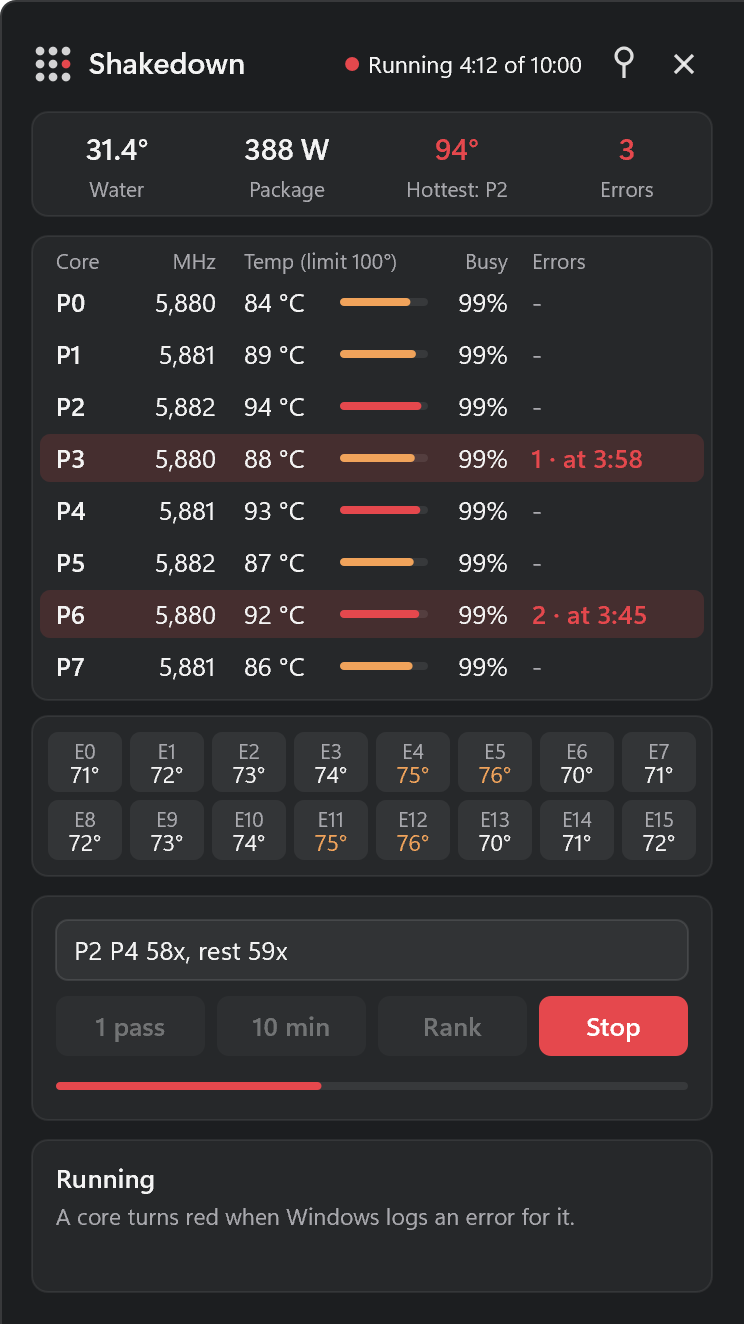
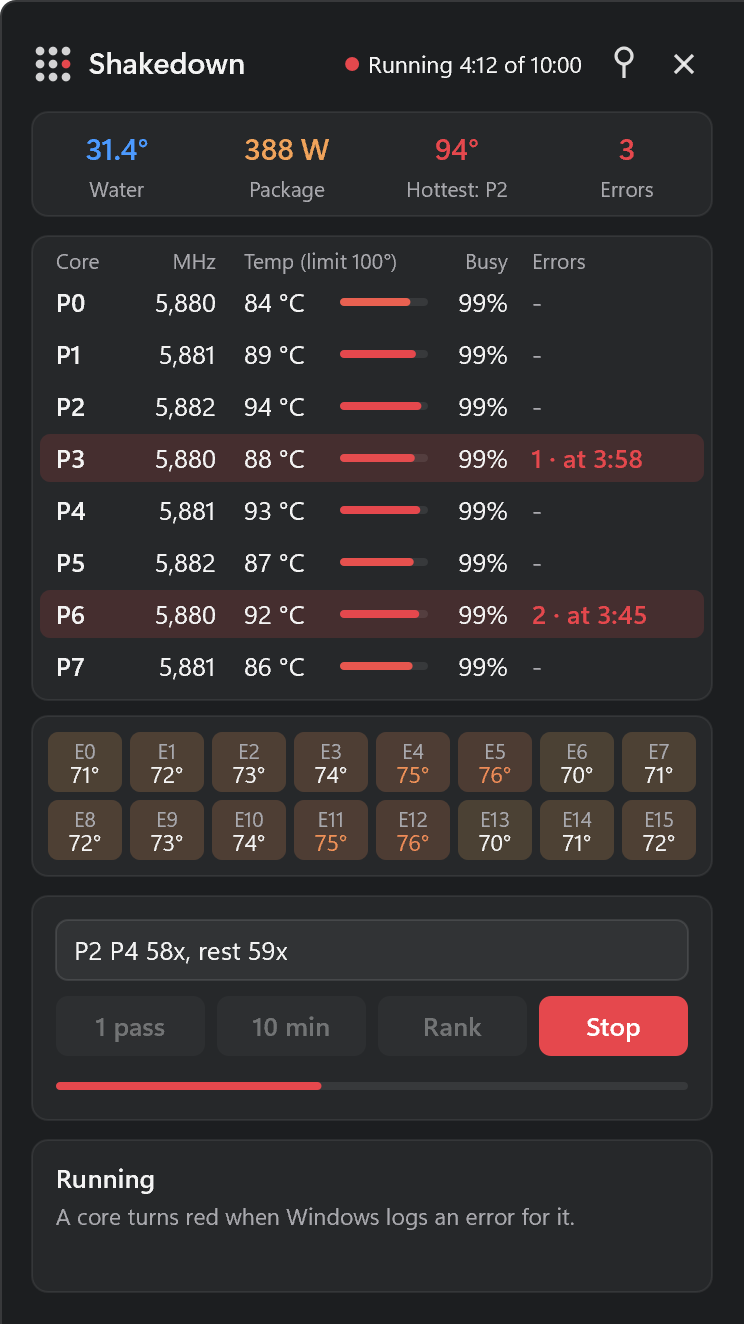
Panel: colour by temperature, blue start buttons, hints on hover
Bars, efficiency-core cells and the hottest reading take a colour from the temperature (blue, green, amber, red). Start buttons are blue, a clean error count is green, and the line under the buttons says what the thing under the mouse does.

Discord: https://discord.com/channels/1464635470893027360/1537253820067745863

diff --git a/src/window.c b/src/window.c
@@ -26,6 +26,7 @@
 #define ACCENT      0xE5484D
 #define WARN        0xF0A35B
 #define GOOD        0x3FB950
+#define COOL        0x4C9AFF
 #define WM_LIVE     (WM_APP + 1)
 #define WM_DONE     (WM_APP + 2)
 #define WM_TRAY     (WM_APP + 3)
@@ -177,10 +178,23 @@ static void number(int v, LPWSTR out) {
     else wsprintfW(out, L"%d", v);
 }
 
+// A colour for a temperature: blue when cool, through green and amber, to red near the thermal limit.
 static UINT heat(int temp, int limit) {
+    static const struct { float at; UINT rgb; } stop[] = {{0, COOL}, {0.35f, GOOD}, {0.62f, WARN}, {0.85f, ACCENT}, {1, ACCENT}};
     if (limit <= 0) limit = 100;
-    return temp >= limit - 10 ? ACCENT : temp >= limit - 25 ? warn() : dim();
+    float t = (float)(temp - 25) / (float)(limit - 25);
+    t = t < 0 ? 0 : t > 1 ? 1 : t;
+    int i = 0;
+    while (i < 3 && t > stop[i + 1].at) i++;
+    float f = (t - stop[i].at) / (stop[i + 1].at - stop[i].at);
+    UINT out = 0;
+    for (int shift = 16; shift >= 0; shift -= 8) {
+        int a = (stop[i].rgb >> shift) & 255, b = (stop[i + 1].rgb >> shift) & 255;
+        out |= (UINT)(a + (b - a) * f + 0.5f) << shift;
+    }
+    return out;
 }
+static BOOL hot(int temp, int limit) { return temp >= (limit > 0 ? limit : 100) - 25; }
 
 static const LiveCore *shown(int i, int *errors, int *first) {
     // Errors stay on screen after a run, until the next one starts.
@@ -192,12 +206,14 @@ static const LiveCore *shown(int i, int *errors, int *first) {
 
 static BOOL isHeld(int i) { return ((running ? view.held : heldOut) >> i & 1) != 0; }
 
-static void button(int id, LPCWSTR label, float x, float y, float w, BOOL enabled, BOOL strong) {
+// Start buttons carry the cool colour, Stop the accent. A disabled button is grey.
+static void button(int id, LPCWSTR label, float x, float y, float w, BOOL enabled, BOOL stop) {
     D2D1_RECT_F r = rc(x, y, w, 30);
     if (enabled) hit[id] = r;
-    if (strong && enabled) fillRound(r, 6, ACCENT, hover == id ? 0.85f : 1);
-    else fillRound(r, 6, tone(), !enabled ? 0.03f : hover == id ? 0.14f : 0.08f);
-    text(label, F_BOLD, rc(x, y + 6, w, 20), strong && enabled ? 0xFFFFFF : ink(), enabled ? 1 : 0.35f, DWRITE_TEXT_ALIGNMENT_CENTER);
+    if (!enabled) fillRound(r, 6, tone(), 0.03f);
+    else if (stop) fillRound(r, 6, ACCENT, hover == id ? 0.85f : 1);
+    else fillRound(r, 6, COOL, hover == id ? 0.38f : light ? 0.20f : 0.24f), strokeRound(r, 6, COOL, 0.45f, 1);
+    text(label, F_BOLD, rc(x, y + 6, w, 20), stop && enabled ? 0xFFFFFF : ink(), enabled ? 1 : 0.35f, DWRITE_TEXT_ALIGNMENT_CENTER);
 }
 
 static void reading(LPCWSTR value, LPCWSTR label, float x, float y, float w, UINT color) {
@@ -283,7 +299,7 @@ static void paintAll(void) {
             lstrcpyW(s, L"Ready");
         }
         float tw = measure(s, F_SMALL);
-        if (running) dot(right - tw - 9, y + 16, 3.5f, ACCENT, 1);
+        dot(right - tw - 9, y + 16, 3.5f, running ? ACCENT : haveResult ? color : good(), 1);
         text(s, F_SMALL, rc(right - tw - 1, y + 8, tw + 4, 18), color, 1, DWRITE_TEXT_ALIGNMENT_LEADING);
         // Pin: keeps the panel open when you click elsewhere.
         hit[H_PIN] = rc(x + w - 58, y + 2, 28, 28);
@@ -313,15 +329,15 @@ static void paintAll(void) {
         card(x, y, w, 52);
         if (view.coolant >= 0) wsprintfW(s, L"%d.%d\x00B0", (int)view.coolant, (int)(view.coolant * 10 + 0.5) % 10);
         else lstrcpyW(s, L"-");
-        reading(s, L"Water", x, y, cw, ink());
+        reading(s, L"Water", x, y, cw, view.coolant >= 0 ? COOL : ink());
         if (view.pkgWatts > 0) wsprintfW(s, L"%d W", view.pkgWatts);
         else lstrcpyW(s, L"-");
-        reading(s, L"Package", x + cw, y, cw, ink());
+        reading(s, L"Package", x + cw, y, cw, view.pkgWatts > 0 ? warn() : ink());
         if (hottest >= 0) wsprintfW(s, L"%d\x00B0", view.core[hottest].temp), wsprintfW(t, L"Hottest: %S", cores[hottest].name);
         else lstrcpyW(s, L"-"), lstrcpyW(t, L"Hottest core");
-        reading(s, t, x + 2 * cw, y, cw, hottest >= 0 && heat(view.core[hottest].temp, view.tjmax) != dim() ? heat(view.core[hottest].temp, view.tjmax) : ink());
+        reading(s, t, x + 2 * cw, y, cw, hottest >= 0 ? heat(view.core[hottest].temp, view.tjmax) : ink());
         wsprintfW(s, L"%d", total);
-        reading(s, total == 1 ? L"Error" : L"Errors", x + 3 * cw, y, cw, total ? ACCENT : ink());
+        reading(s, total == 1 ? L"Error" : L"Errors", x + 3 * cw, y, cw, total ? ACCENT : good());
         y += 52 + 10;
     }
 
@@ -385,14 +401,16 @@ static void paintAll(void) {
             D2D1_RECT_F cell = rc(cx, cy, cw, ch);
             UINT color = ink();
             if (!running) hit[H_CORE + i] = cell;
-            fillRound(cell, 5, errors ? ACCENT : tone(), errors ? 0.30f : hover == H_CORE + i ? 0.12f : 0.06f);
+            if (errors) fillRound(cell, 5, ACCENT, 0.30f);
+            else if (c->temp >= 0 && !held) fillRound(cell, 5, heat(c->temp, view.tjmax), hover == H_CORE + i ? 0.34f : 0.20f);
+            else fillRound(cell, 5, tone(), hover == H_CORE + i ? 0.12f : 0.06f);
             wsprintfW(s, L"%S", cores[i].name);
             text(s, F_TINY, rc(cx, cy + 2, cw, 13), dim(), a, DWRITE_TEXT_ALIGNMENT_CENTER);
             if (errors) wsprintfW(s, L"%d err", errors);
             else if (held) lstrcpyW(s, L"out");
             else if (c->temp >= 0) {
                 wsprintfW(s, L"%d\x00B0", c->temp);
-                if (heat(c->temp, view.tjmax) != dim()) color = heat(c->temp, view.tjmax);
+                if (hot(c->temp, view.tjmax)) color = heat(c->temp, view.tjmax);
             } else if (c->mhz) number(c->mhz, s);
             else lstrcpyW(s, L"-");
             text(s, F_SMALL, rc(cx, cy + 13, cw, 15), color, a, DWRITE_TEXT_ALIGNMENT_CENTER);
@@ -436,8 +454,20 @@ static void paintAll(void) {
             hit[H_INSTALL] = rc(ix + lw + 4, hy - 2, measure(link, F_TINY) + 6, 18);
             text(link, F_TINY, rc(ix + lw + 7, hy, 220, 14), ACCENT, hover == H_INSTALL ? 0.8f : 1, DWRITE_TEXT_ALIGNMENT_LEADING);
         } else {
-            LPCWSTR hint = running ? L"A crash closes the load by itself. Stop ends it now." : L"Click a core to hold it out. Rank repeats a 10 minute run.";
-            text(hint, F_TINY, rc(ix, hy, iw, 14), dim(), 1, DWRITE_TEXT_ALIGNMENT_LEADING);
+            // Says what the thing under the mouse does.
+            LPCWSTR hint = running ? L"A crash closes the load by itself. Stop ends it now." : L"Hover anything to see what it does.";
+            if (hover == H_PASS) hint = L"Run the load once, start to finish. The quick check.";
+            else if (hover == H_TEN) hint = L"Run the load for 10 minutes. The full test.";
+            else if (hover == H_RANK) hint = L"10 minute runs, holding out each core that fails, until it passes.";
+            else if (hover == H_STOP) hint = L"End the run now.";
+            else if (hover == H_NOTE) hint = L"Saved with the result, so you know which settings it was.";
+            else if (hover == H_PIN) hint = pinned ? L"Pinned: stays open. Click to let it close again." : L"Keep this panel open when you click elsewhere.";
+            else if (hover == H_EXIT) hint = L"Exit Shakedown. It is not running after this.";
+            else if (hover >= H_CORE) {
+                wsprintfW(s, isHeld(hover - H_CORE) ? L"%S is held out. Click to put it back in the next run." : L"Click to hold %S out of the next run: it stays idle.", cores[hover - H_CORE].name);
+                hint = s;
+            }
+            text(hint, F_TINY, rc(ix, hy, iw, 14), hover ? ink() : dim(), hover ? 0.9f : 1, DWRITE_TEXT_ALIGNMENT_LEADING);
         }
         y += 112 + 10;
     }

diff --git a/AGENTS.md b/AGENTS.md
@@ -39,6 +39,7 @@ Guide for coding agents working on this repo. Humans: see README.md.
 - **Idle cost:** the worker samples every 2 s only while the panel is open (`watching`) or a run is going. With the panel closed and no run it calls `sensorsClose()` and waits without a timeout, so the helper exits and nothing is read. Keep it that way.
 - Drawing: an `ID2D1DCRenderTarget` (software, premultiplied alpha) into a DIB, handed over with `UpdateLayeredWindow`. A frame is drawn per sample or mouse change, nothing in between. Never while the panel is hidden.
 - 372 wide, height from the core counts (`height()`). Top to bottom: header (state, pin, exit), four readings, P-cores as rows, E-cores as a grid, the test card, the result card (or the last two ledger lines when there is no result yet). On a small or heavily scaled screen the whole panel is scaled down to fit.
+- Colour: `heat()` maps a temperature to blue, green, amber, red (red from 85% of the way to the thermal limit) for bars, efficiency-core cells and the hottest reading. Start buttons are blue, Stop is red, a clean error count is green. The hint line under the buttons says what the thing under the mouse does; add a line there for any new control.
 - Clicking a core toggles it in `heldOut`; after a ranking the cores that had to be held out stay marked.
 - Exit stops a running load (it asks first), then the worker, then the process. The helper notices within 15 s and exits.
 - `shakedown.exe --shot <idle|running|fail|pass|rank|nohelper|first> [light] [pinned] [x2] out=<file.bmp>` draws one state with made-up data: no window, no hardware. The bitmap has premultiplied alpha. Review these after any change to the picture; `docs/panel*.png` are made from them.

diff --git a/README.md b/README.md
@@ -35,6 +35,7 @@ A held-out core is kept idle with a job affinity limit, which the load cannot un
 In the panel:
 
 - **1 pass**, **10 min** and **Rank** start a run. **Stop** ends it.
+- Hover anything and the line under the buttons says what it does.
 - Every core has a line (or a cell, for efficiency cores) with its clock, temperature and load. A core turns red the moment Windows logs an error for it.
 - Click a core to hold it out of the next run.
 - Type what you are testing (for example `P0 P1 59x, rest 58x`) and it is kept with the result.
